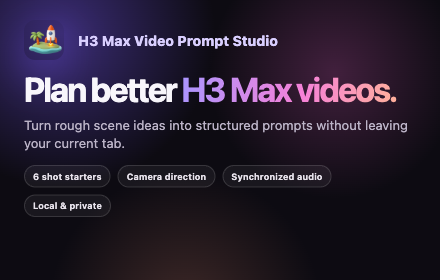
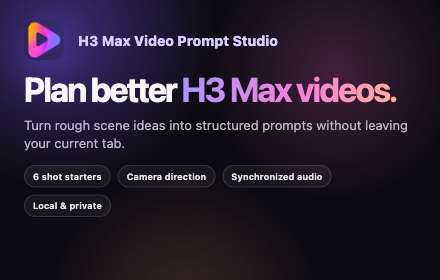
fix: align extension branding with h3max.io

Changed region(s): [[0.0591, 0.0571, 0.1477, 0.2286]]

diff --git a/popup.html b/popup.html
@@ -4,7 +4,7 @@
     <meta charset="utf-8" />
     <meta name="viewport" content="width=device-width, initial-scale=1" />
     <title>H3 Max Video Prompt Studio</title>
-    <link rel="icon" href="assets/icons/icon-32.png" />
+    <link rel="icon" href="assets/favicon.ico" />
     <link rel="stylesheet" href="popup.css" />
   </head>
   <body>

diff --git a/assets/store/showcase.html b/assets/store/showcase.html
@@ -4,6 +4,7 @@
     <meta charset="utf-8" />
     <meta name="viewport" content="width=device-width, initial-scale=1" />
     <title>H3 Max Video Prompt Studio — Store Artwork</title>
+    <link rel="icon" href="../favicon.ico" />
     <style>
       * {
         box-sizing: border-box;

diff --git a/docs/submission-checklist.md b/docs/submission-checklist.md
@@ -8,6 +8,7 @@
 - `popup.css`
 - `popup.js`
 - `assets/logo.png`
+- `assets/favicon.ico`
 - `assets/icons/icon-16.png`
 - `assets/icons/icon-32.png`
 - `assets/icons/icon-48.png`
@@ -65,4 +66,4 @@ No. All HTML, CSS, and JavaScript are packaged with the extension.
 - confirm there are no extension console errors
 - ensure listing copy matches the current feature set
 - ensure the public privacy policy URL is available
-- upload the ZIP from `dist/h3max-video-prompt-studio-1.0.0.zip`
+- upload the ZIP from `dist/h3max-video-prompt-studio-1.0.1.zip`

diff --git a/README.md b/README.md
@@ -70,6 +70,7 @@ Read the full [privacy policy](docs/privacy-policy.md).
 - `manifest.json` — Manifest V3 configuration
 - `service-worker.js` — opens the side panel from the toolbar icon
 - `popup.html`, `popup.css`, `popup.js` — prompt studio interface and behavior
+- `assets/logo.png`, `assets/favicon.ico` — h3max.io brand assets
 - `assets/icons/` — Chrome extension icons
 - `assets/store/` — Chrome Web Store listing artwork
 - `docs/` — listing copy, reviewer instructions, privacy policy, and submission checklist
